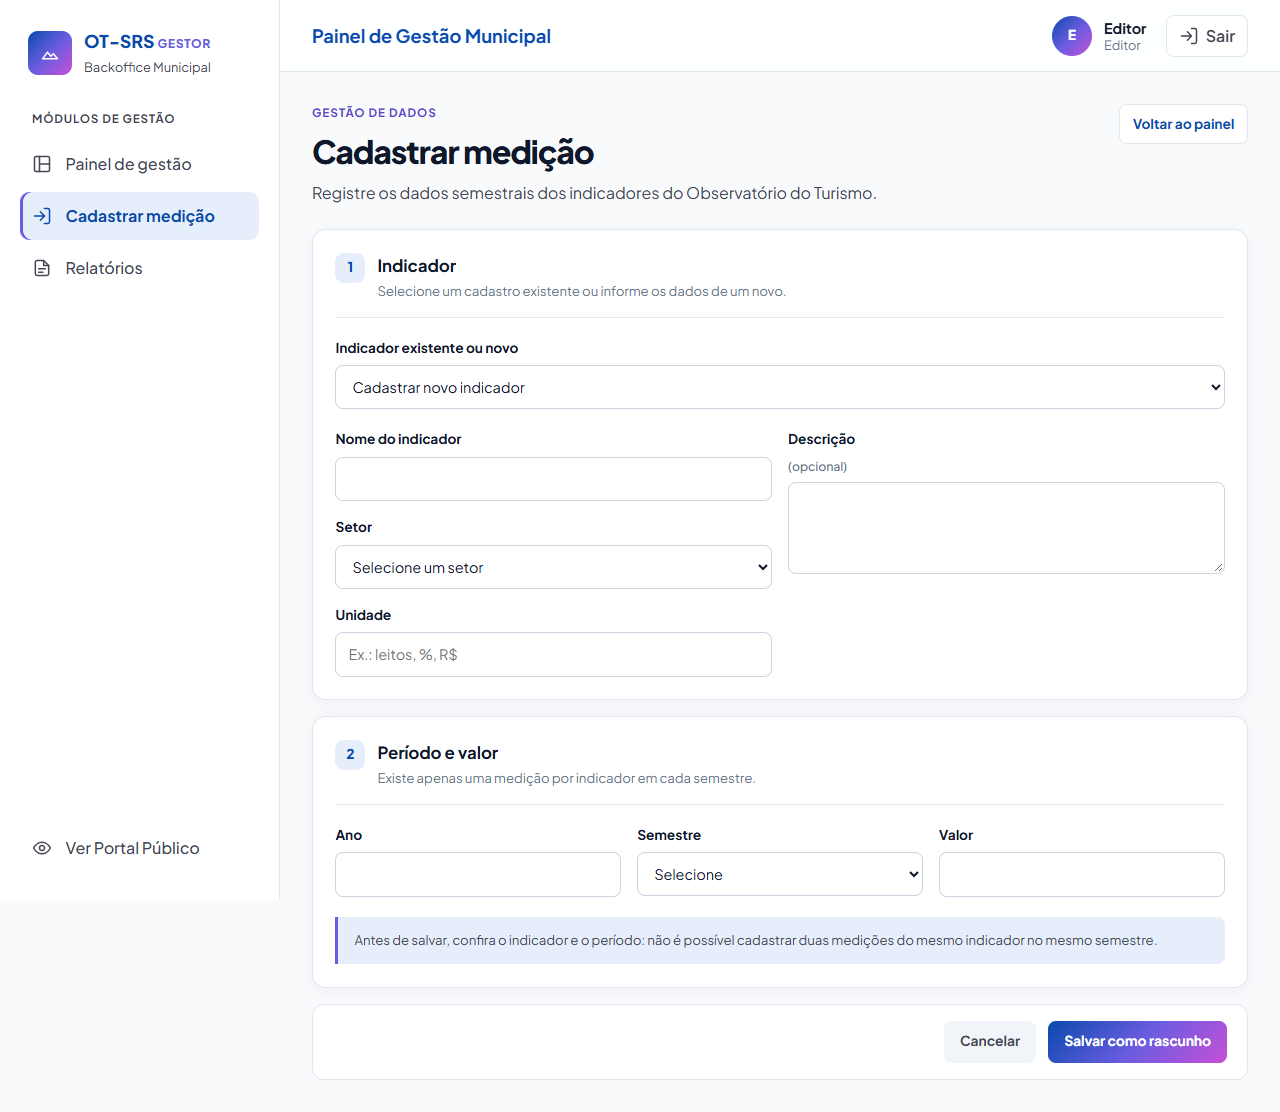
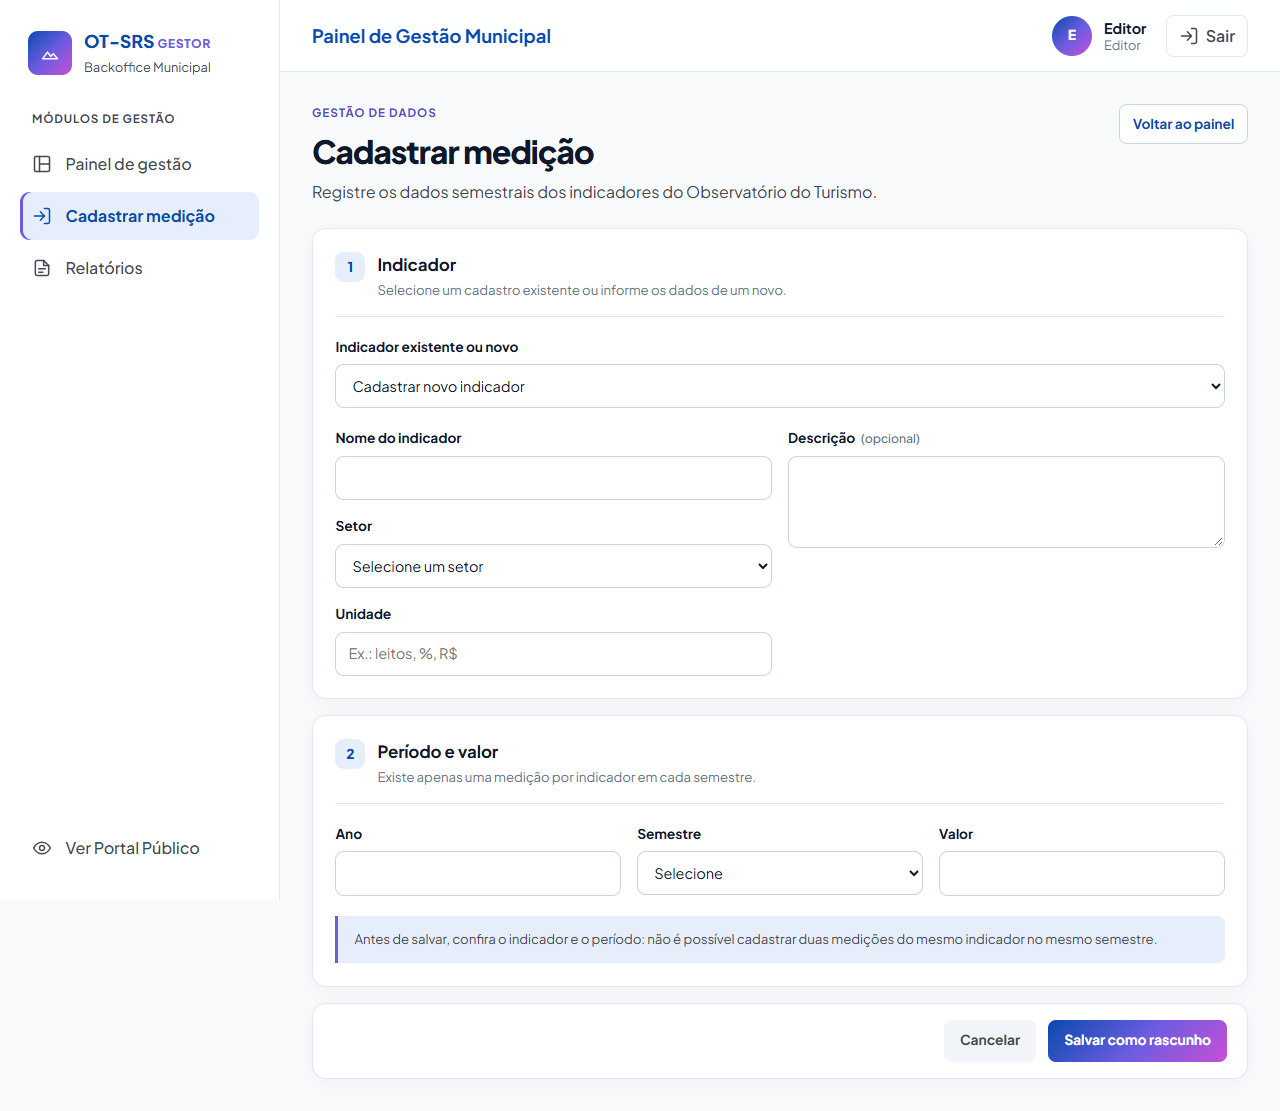
docs: atualiza as evidências do PR #221

diff --git a/docs/evidencias/pr-221/README.md b/docs/evidencias/pr-221/README.md
@@ -1,10 +1,11 @@
 # Evidências do PR #221: cadastro e edição de medições
 
-As capturas foram feitas na branch do PR (`30af385`) contra a API real, com Postgres e o seed. A sessão era do perfil editor, no Chrome, em 375 e 1280 px. Antes das capturas, duas medições de 2026/1 foram criadas em rascunho pela API: Número de leitos (id 24) e Taxa de ocupação (id 25). Nenhuma página rola na horizontal. O único erro no console é a resposta `409` da tentativa de duplicar, que é esperada.
+As capturas foram feitas na branch do PR (`e04677c`, já com o visual alinhado à Tela 6 do #220) contra a API real, com Postgres e o seed. A sessão era do perfil editor, no Chrome, em 375 e 1280 px. Antes das capturas, duas medições de 2026/1 foram criadas em rascunho pela API: Número de leitos (id 24) e Taxa de ocupação (id 25). Nenhuma página rola na horizontal. Os únicos erros no console são esperados: o `409` da tentativa de duplicar e o `500` forçado no estado de erro.
 
 | Arquivo | O que mostra |
 |---|---|
 | `cadastro-novo-indicador-375.png`, `cadastro-novo-indicador-1280.png` | `/admin/medicoes/nova` com "Cadastrar novo indicador": nome, descrição, setor e unidade, além do aviso de uma medição por indicador e semestre |
 | `cadastro-duplicada-409-375.png`, `cadastro-duplicada-409-1280.png` | Número de leitos em 2026/1 de novo: o `409` da API aparece no formulário ("Já existe uma medição deste indicador em 2026/1"), e ano, semestre e valor continuam preenchidos |
-| `editar-rascunho-375.png`, `editar-rascunho-1280.png` | `/admin/medicoes/25/editar`: o rascunho carregado com o indicador, o período e o valor, e o botão "Salvar alterações" |
+| `editar-rascunho-375.png`, `editar-rascunho-1280.png` | `/admin/medicoes/25/editar`: o rascunho carregado com o indicador, o período e o valor (com a unidade na linha do rótulo), e o botão "Salvar alterações" |
 | `editar-publicada-375.png`, `editar-publicada-1280.png` | `/admin/medicoes/1/editar`: a medição publicada só para leitura, com "Despublique para editar" e sem botão de salvar |
+| `erro-consulta-375.png`, `erro-consulta-1280.png` | Falha ao carregar o formulário, com `/api/setores` respondendo `500` (interceptado no navegador): o estado de erro e o "Tentar novamente" no mesmo formato do painel |
